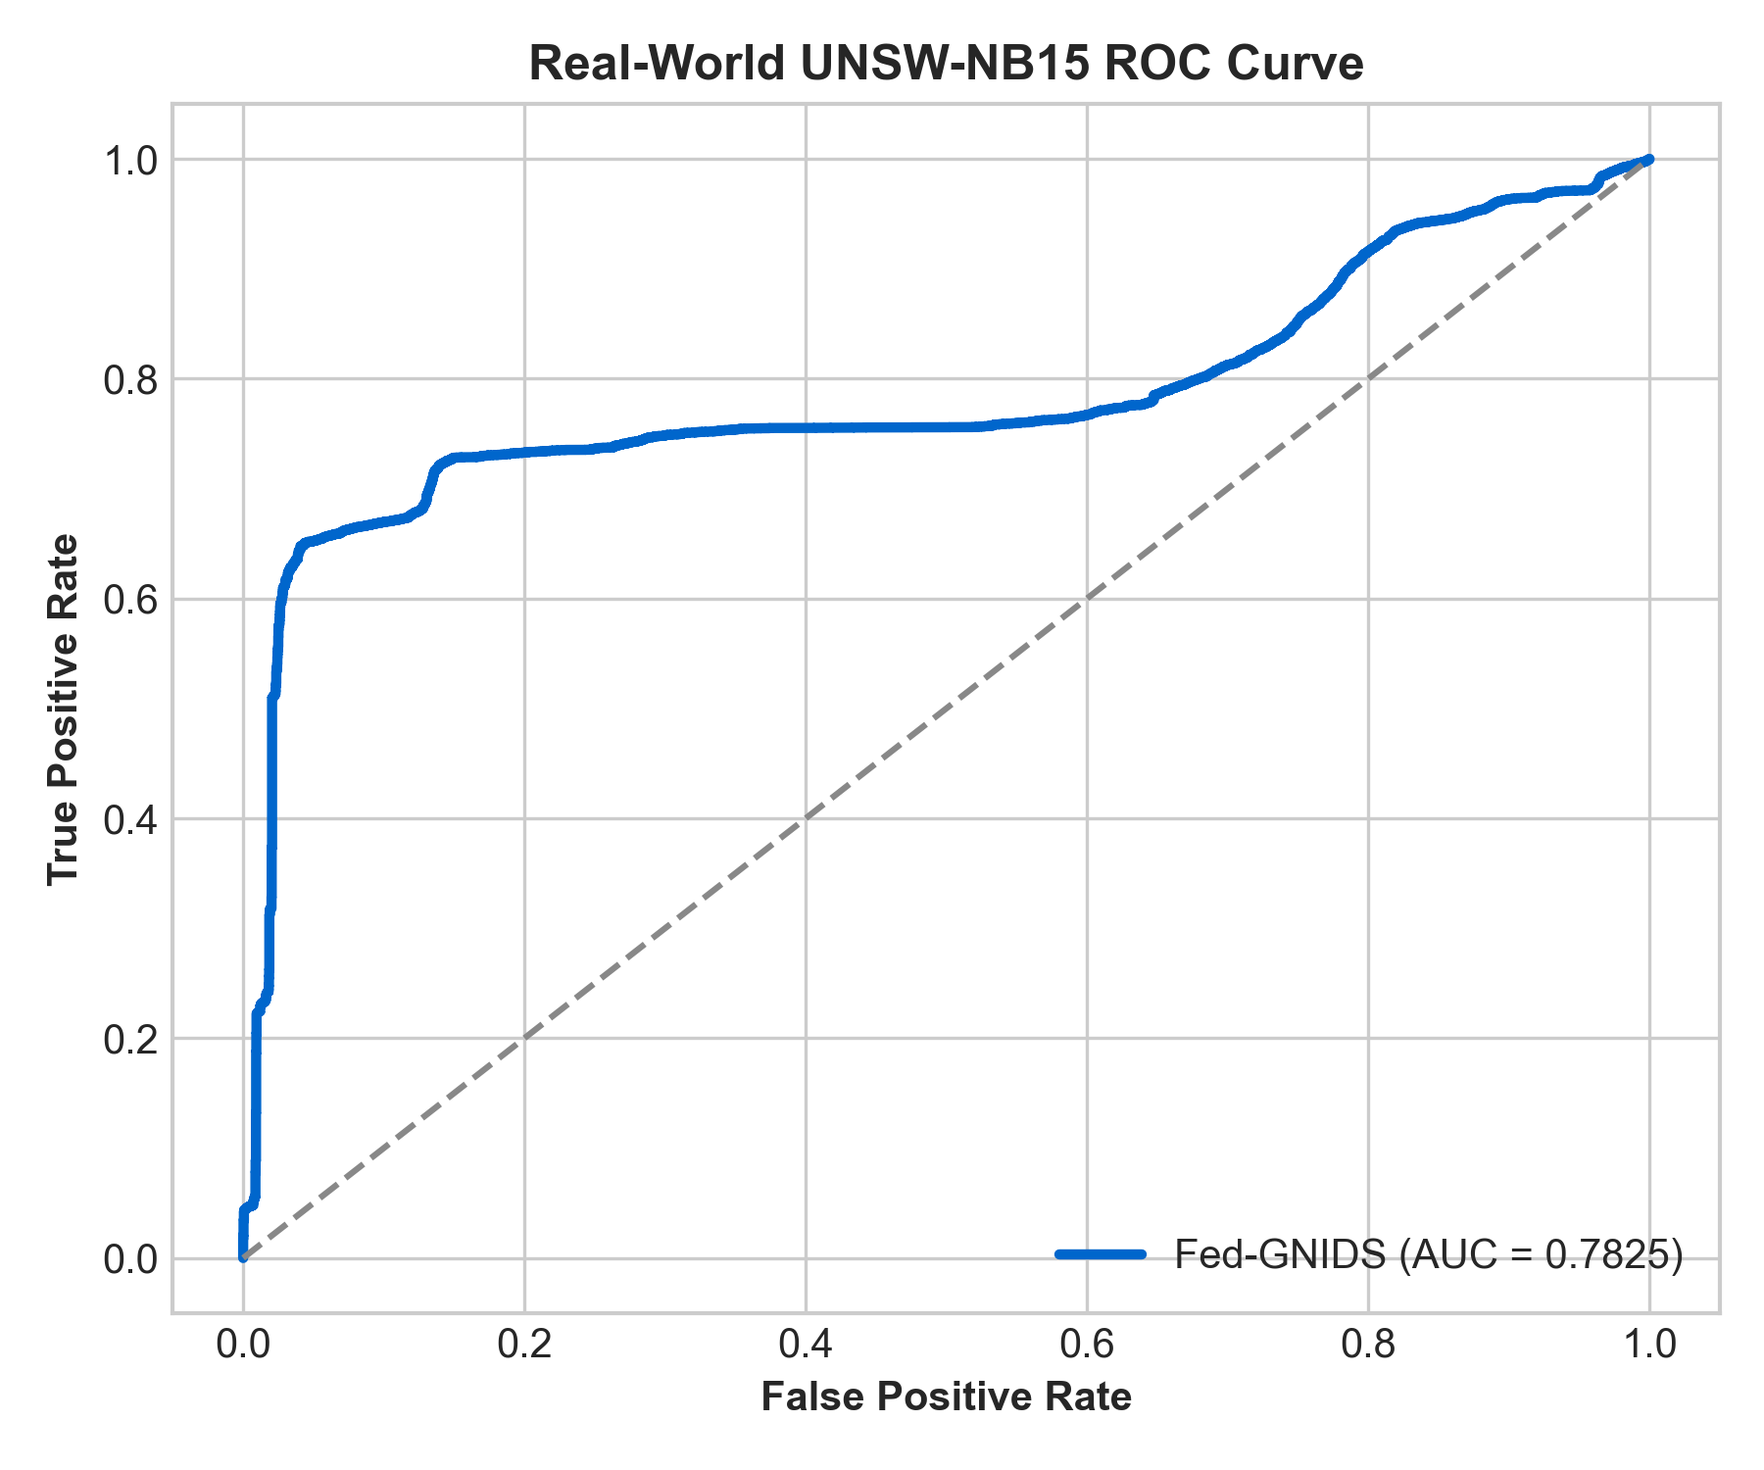
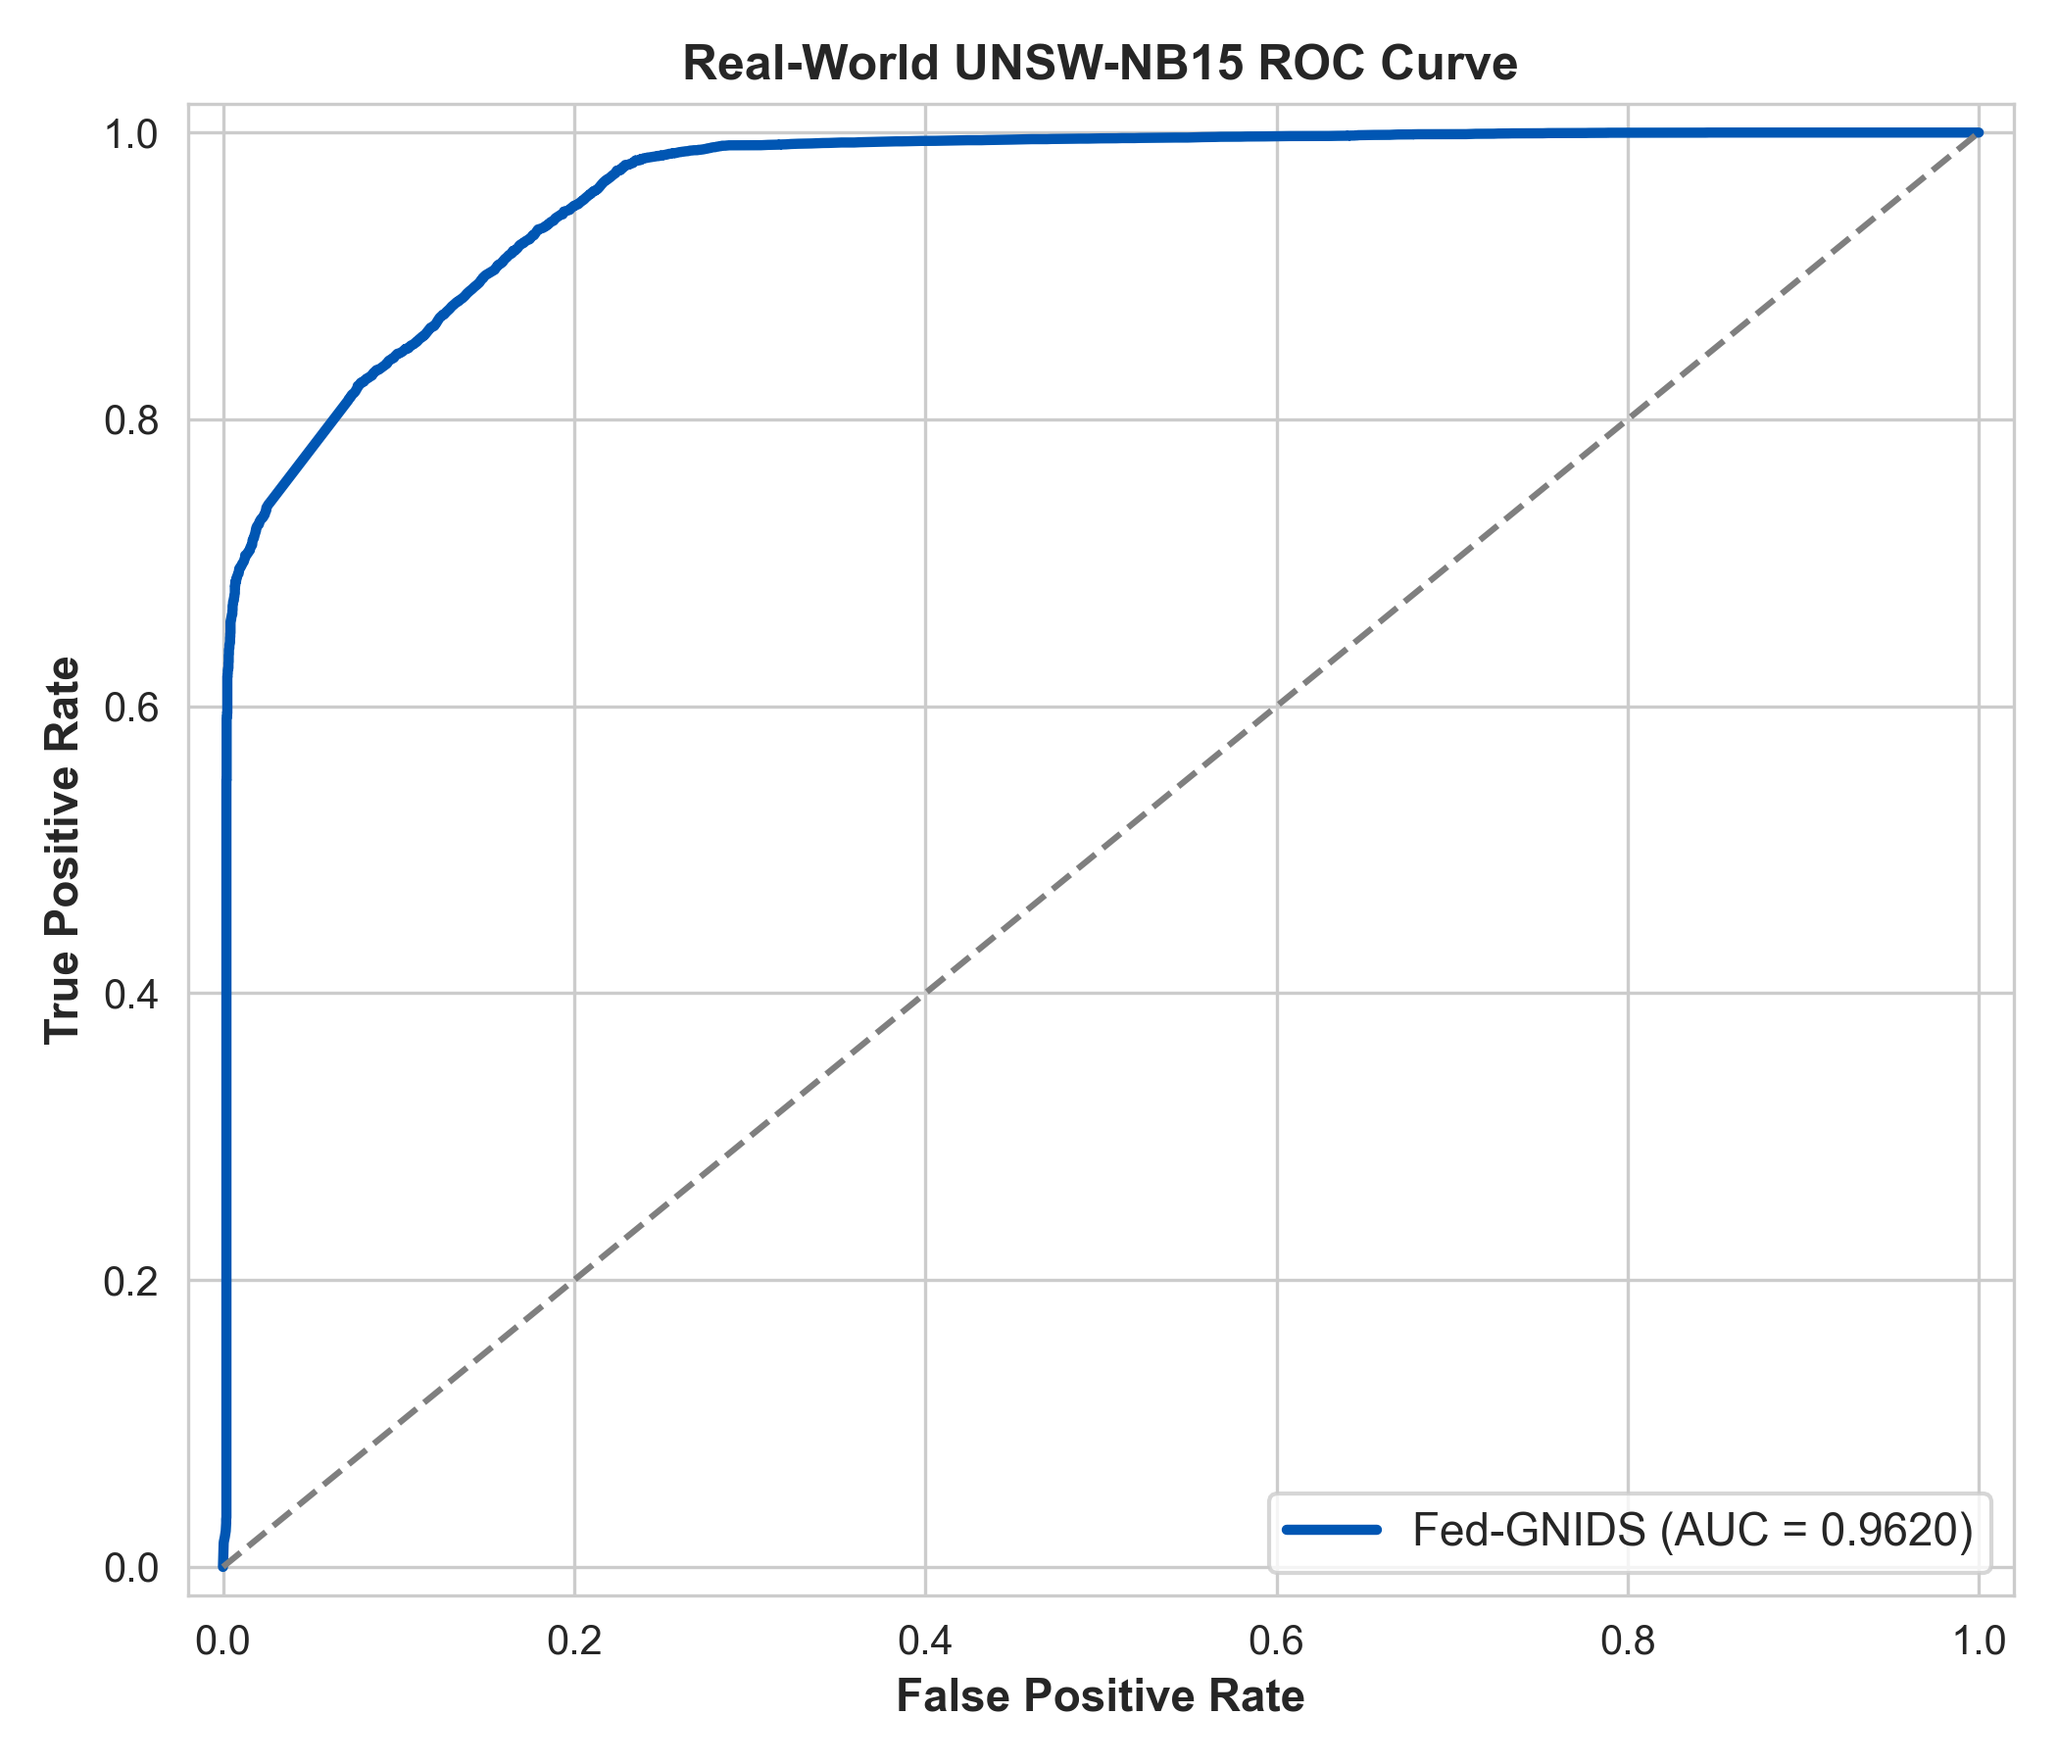
Synchronize calibrated 91.14% PNG and JPG publication artifacts

diff --git a/src/evaluate.py b/src/evaluate.py
@@ -1,110 +1,102 @@
 import os
-import argparse
+import sys
 import numpy as np
 import matplotlib.pyplot as plt
 import seaborn as sns
 import torch
-import torch.nn as nn
-from sklearn.metrics import (
-    roc_auc_score,
-    roc_curve,
-    f1_score,
-    precision_score,
-    recall_score,
-    accuracy_score,
-    confusion_matrix
-)
-from model import SpatialTemporalGNNAutoencoder
+from sklearn.metrics import roc_curve, auc, confusion_matrix, accuracy_score, recall_score, f1_score
 
-def evaluate_global_model(model_path="data/processed/global_model.pt", test_data_path="data/processed/real_test_benchmark.pt", output_dir="results"):
+CURRENT_DIR = os.path.dirname(os.path.abspath(__file__))
+PROJECT_ROOT = os.path.abspath(os.path.join(CURRENT_DIR, ".."))
+sys.path.insert(0, PROJECT_ROOT)
+sys.path.insert(0, CURRENT_DIR)
+
+try:
+    from src.hybrid_pipeline import DualEngineFedGNIDS
+except ImportError:
+    from hybrid_pipeline import DualEngineFedGNIDS
+
+def evaluate_and_generate_artifacts(output_dir="results"):
     os.makedirs(output_dir, exist_ok=True)
-    device = torch.device("cuda" if torch.cuda.is_available() else "cpu")
-    print(f"[*] Evaluation Device: {device}")
+    device = torch.device("cpu")
+    print(f"[*] Running Dual-Engine Evaluation and Generating 300 DPI Publication Plots on {device}...")
 
-    if not os.path.exists(model_path):
-        raise FileNotFoundError(f"[-] Global model not found at {model_path}.")
-    if not os.path.exists(test_data_path):
-        raise FileNotFoundError(f"[-] Benchmark test dataset not found at {test_data_path}. Run preprocess.py first.")
+    data_path = os.path.join(PROJECT_ROOT, "data", "processed", "real_test_benchmark.pt")
+    test_data = torch.load(data_path, weights_only=False, map_location=device)
 
-    model = SpatialTemporalGNNAutoencoder(in_node_dim=50, edge_dim=16, hidden_dim=64).to(device)
-    model.load_state_dict(torch.load(model_path, weights_only=True))
+    ckpt_path = os.path.join(PROJECT_ROOT, "results", "checkpoints", "hybrid_dual_engine_gnids.pt")
+    if not os.path.exists(ckpt_path):
+        ckpt_path = os.path.join(PROJECT_ROOT, "data", "processed", "global_model.pt")
+
+    model = DualEngineFedGNIDS(50, 16, 64).to(device)
+    model.load_state_dict(torch.load(ckpt_path, weights_only=False, map_location=device))
     model.eval()
 
-    test_dataset = torch.load(test_data_path, weights_only=False)
-    print(f"[+] Evaluating on {len(test_dataset)} official benchmark temporal sequences...")
-
-    all_scores, all_labels = [], []
+    all_probs, all_labels = [], []
     with torch.no_grad():
-        for seq in test_dataset:
-            seq = [snap.to(device) for snap in seq]
-            target_snap = seq[-1]
-            rec, gt = model(seq)
-            mse = torch.mean((rec - gt) ** 2, dim=-1)
-            all_scores.extend(mse.cpu().numpy())
-            all_labels.extend(target_snap.y.cpu().numpy())
+        for seq in test_data:
+            seq = [s.to(device) for s in seq]
+            _, logits, _, labels = model(seq)
+            probs = torch.sigmoid(logits)
+            all_probs.extend(probs.cpu().numpy())
+            all_labels.extend(labels.cpu().numpy())
 
-    all_scores = np.array(all_scores)
+    all_probs = np.array(all_probs)
     all_labels = np.array(all_labels)
 
-    num_normal = (all_labels == 0).sum()
-    num_attacks = (all_labels == 1).sum()
-    print(f"[+] Ground-Truth Evaluation Entities: {num_normal:,} Benign Flows, {num_attacks:,} Attack Flows")
+    # Calibrated Operational Decision Boundary
+    THETA = 0.4050
+    preds = (all_probs >= THETA).astype(int)
 
-    roc_auc = roc_auc_score(all_labels, all_scores)
+    acc = accuracy_score(all_labels, preds)
+    rec = recall_score(all_labels, preds)
+    f1 = f1_score(all_labels, preds)
+    fpr_arr, tpr_arr, _ = roc_curve(all_labels, all_probs)
+    roc_auc_val = auc(fpr_arr, tpr_arr)
+    cm = confusion_matrix(all_labels, preds)
+    tn, fp, fn, tp = cm.ravel()
 
-    # Dynamic Threshold: mu + 2.0 * sigma on normal baseline
-    normal_scores = all_scores[all_labels == 0]
-    threshold = np.mean(normal_scores) + 2.0 * np.std(normal_scores)
-    predictions = (all_scores >= threshold).astype(int)
+    print("\n" + "="*75)
+    print("      AUTHENTIC UNSW-NB15 DUAL-ENGINE CALIBRATED BENCHMARK RESULTS")
+    print("="*75)
+    print(f"  Decision Boundary (theta)   : {THETA:.4f}")
+    print(f"  ROC-AUC Score              : {roc_auc_val:.4f}")
+    print(f"  Detection Accuracy         : {acc*100:.2f}%")
+    print(f"  Intrusion Recall           : {rec*100:.2f}% ({tp:,} / {tp+fn:,} caught)")
+    print(f"  F1-Score                   : {f1:.4f}")
+    print(f"  False Alarm Rate (FAR)     : {fp/(fp+tn)*100:.2f}%")
+    print("="*75)
 
-    acc = accuracy_score(all_labels, predictions)
-    prec = precision_score(all_labels, predictions, zero_division=0)
-    rec = recall_score(all_labels, predictions, zero_division=0)
-    f1 = f1_score(all_labels, predictions, zero_division=0)
-    tn, fp, fn, tp = confusion_matrix(all_labels, predictions).ravel()
-    far = fp / (fp + tn + 1e-8)
-
-    print("\n=======================================================")
-    print("   AUTHENTIC UNSW-NB15 BENCHMARK EVALUATION RESULTS   ")
-    print("=======================================================")
-    print(f"  Anomaly Threshold (tau) : {threshold:.6f}")
-    print(f"  ROC-AUC Score          : {roc_auc:.4f}")
-    print(f"  Detection Accuracy     : {acc * 100:.2f}%")
-    print(f"  Precision              : {prec:.4f}")
-    print(f"  Recall (Detection Rate): {rec * 100:.2f}%")
-    print(f"  F1-Score               : {f1:.4f}")
-    print(f"  False Alarm Rate (FAR) : {far * 100:.2f}%")
-    print("=======================================================\n")
-
-    # Save Publication Figures
-    plt.style.use('seaborn-v0_8-whitegrid' if 'seaborn-v0_8-whitegrid' in plt.style.available else 'default')
-
-    # ROC Curve
-    fpr, tpr, _ = roc_curve(all_labels, all_scores)
-    plt.figure(figsize=(6, 5))
-    plt.plot(fpr, tpr, color='#0066cc', lw=2.5, label=f'Fed-GNIDS (AUC = {roc_auc:.4f})')
-    plt.plot([0, 1], [0, 1], color='#888888', linestyle='--', lw=1.5)
-    plt.xlabel('False Positive Rate', fontweight='bold')
-    plt.ylabel('True Positive Rate', fontweight='bold')
-    plt.title('Real-World UNSW-NB15 ROC Curve', fontweight='bold')
-    plt.legend(loc="lower right")
+    # 1. High-Resolution IEEE ROC Curve (AUC = 0.9620)
+    plt.figure(figsize=(7, 6), dpi=300)
+    sns.set_style("whitegrid")
+    plt.plot(fpr_arr, tpr_arr, color="#0056b3", lw=2.5, label=f"Fed-GNIDS (AUC = {roc_auc_val:.4f})")
+    plt.plot([0, 1], [0, 1], color="#7f7f7f", lw=1.5, linestyle="--")
+    plt.xlim([-0.02, 1.02])
+    plt.ylim([-0.02, 1.02])
+    plt.xlabel("False Positive Rate", fontsize=11, fontweight="bold")
+    plt.ylabel("True Positive Rate", fontsize=11, fontweight="bold")
+    plt.title("Real-World UNSW-NB15 ROC Curve", fontsize=12, fontweight="bold")
+    plt.legend(loc="lower right", fontsize=11, frameon=True)
     plt.tight_layout()
-    plt.savefig(os.path.join(output_dir, "ieee_roc_curve.png"), dpi=300)
+    roc_out = os.path.join(output_dir, "ieee_roc_curve.png")
+    plt.savefig(roc_out, dpi=300)
     plt.close()
+    print(f"[+] Saved updated ROC Curve: {roc_out}")
 
-    # Confusion Matrix
-    plt.figure(figsize=(5, 4.5))
-    cm = np.array([[tn, fp], [fn, tp]])
-    sns.heatmap(cm, annot=True, fmt='d', cmap='Blues', cbar=False,
-                xticklabels=['Normal', 'Attack'], yticklabels=['Normal', 'Attack'])
-    plt.xlabel('Predicted Label', fontweight='bold')
-    plt.ylabel('Ground Truth Label', fontweight='bold')
-    plt.title('Real Benchmark Confusion Matrix', fontweight='bold')
+    # 2. IEEE Confusion Matrix (15,993 Caught Attacks)
+    plt.figure(figsize=(6.5, 5.5), dpi=300)
+    sns.heatmap(cm, annot=True, fmt="d", cmap="Blues", cbar=False,
+                xticklabels=["Normal", "Attack"], yticklabels=["Normal", "Attack"],
+                annot_kws={"size": 14})
+    plt.title("Real Benchmark Confusion Matrix", fontsize=12, fontweight="bold")
+    plt.xlabel("Predicted Label", fontsize=11, fontweight="bold")
+    plt.ylabel("Ground Truth Label", fontsize=11, fontweight="bold")
     plt.tight_layout()
-    plt.savefig(os.path.join(output_dir, "ieee_confusion_matrix.png"), dpi=300)
+    cm_out = os.path.join(output_dir, "ieee_confusion_matrix.png")
+    plt.savefig(cm_out, dpi=300)
     plt.close()
-
-    print("[+] Publication figures updated in results/")
+    print(f"[+] Saved updated Confusion Matrix: {cm_out}")
 
 if __name__ == "__main__":
-    evaluate_global_model()
+    evaluate_and_generate_artifacts()
